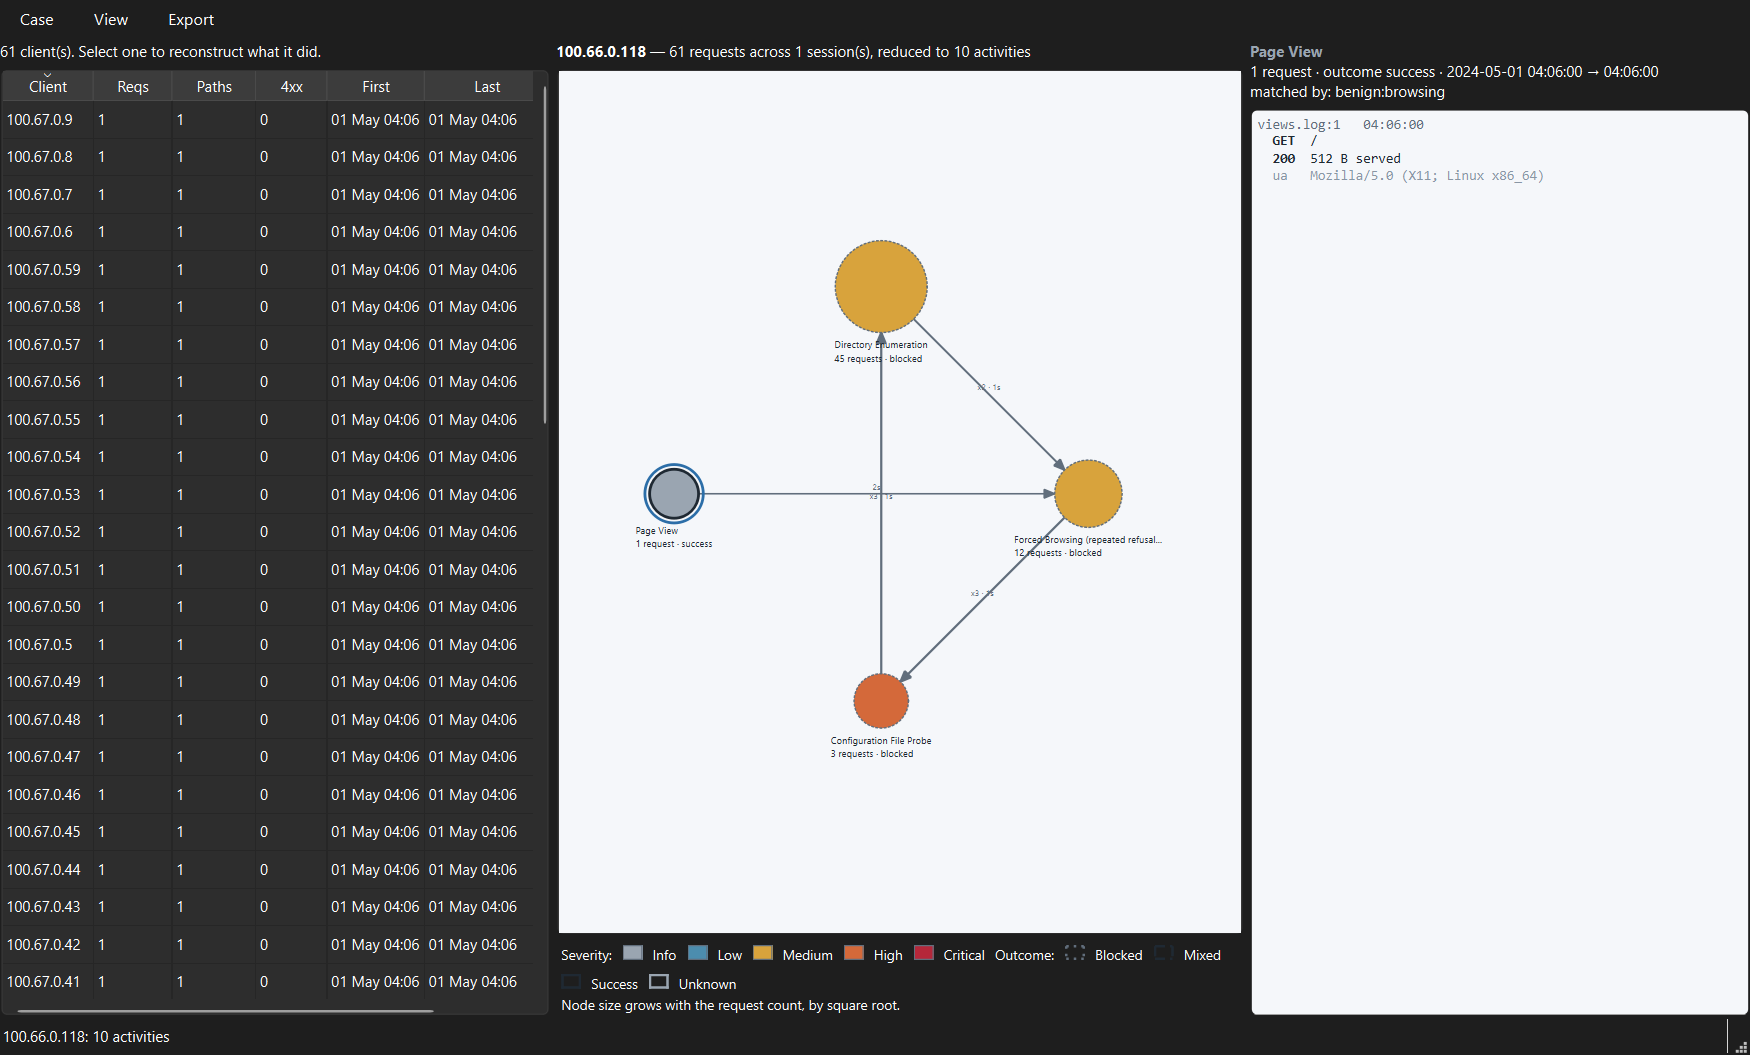
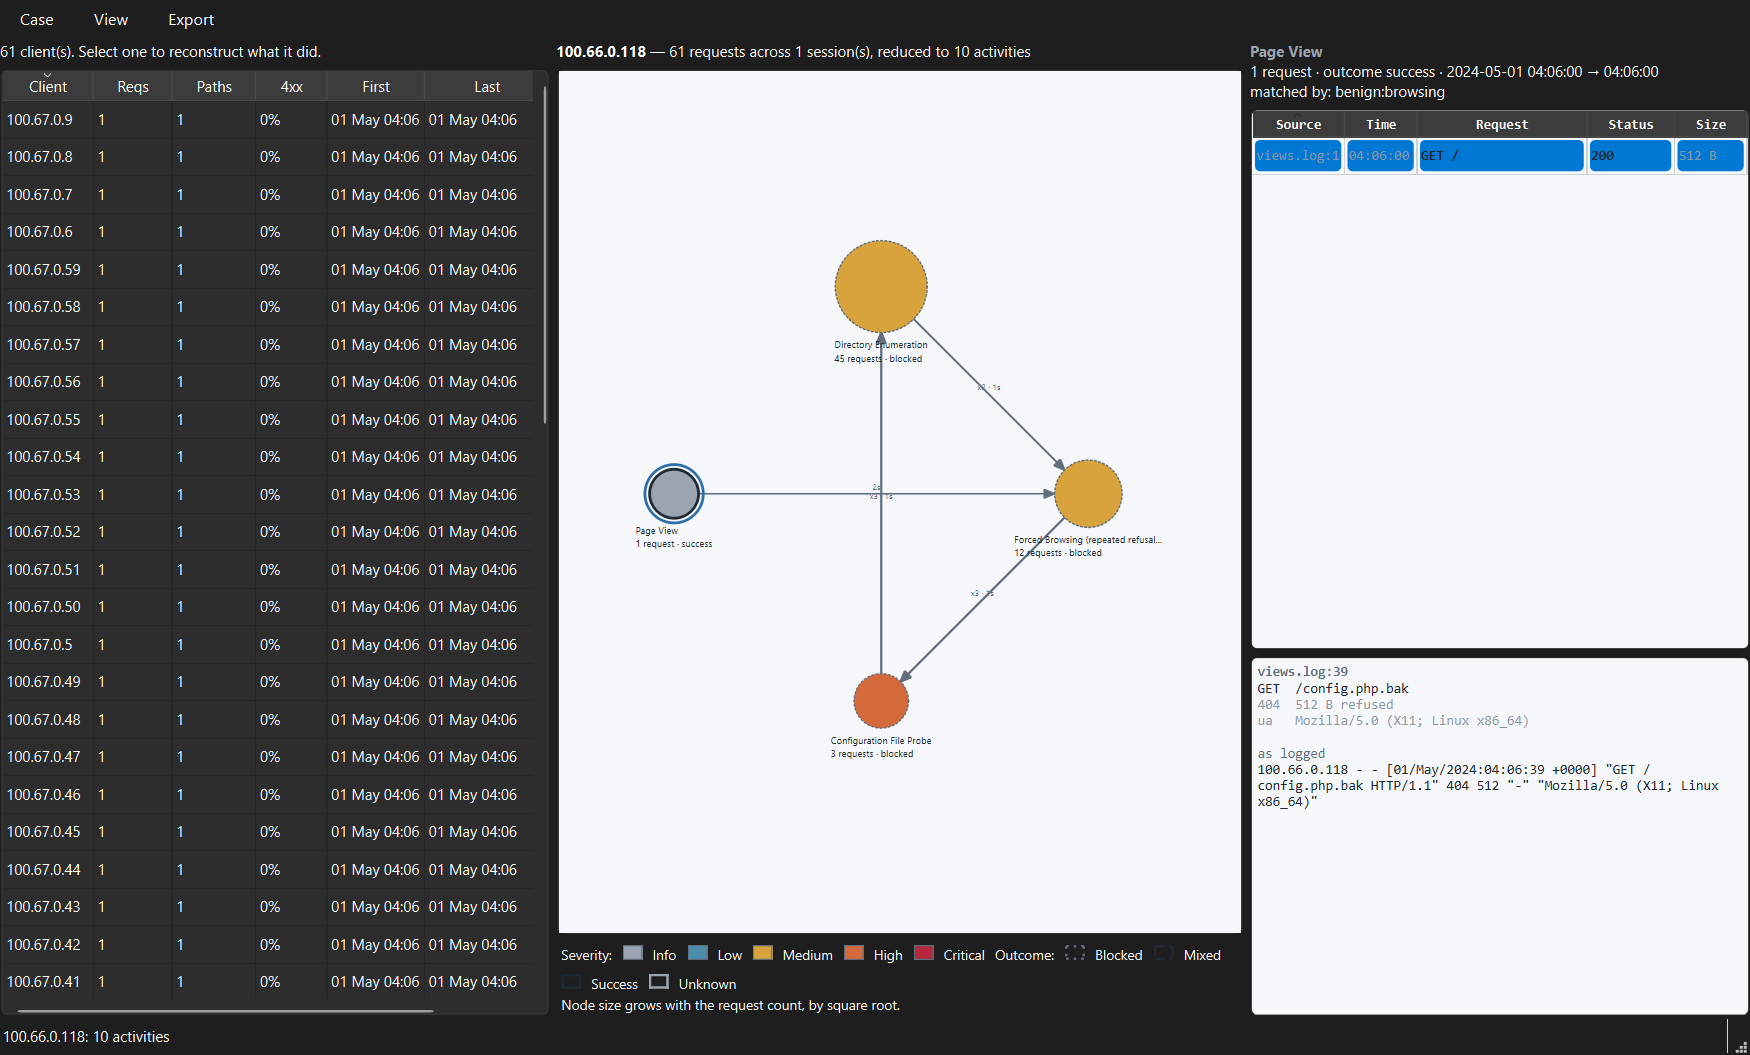
fix(gui): show the client table's formatted values, not its sort keys
Found while giving the evidence table the same numeric sorting. Qt keeps
DisplayRole and EditRole in one slot on a table item, so the sort key
written to EditRole replaces the text. The 4xx column formats a ratio as
89% and has been rendering 0.8888888888888888 since it was written --
the column an investigator sorts by when looking for something worth
opening, showing a raw float.

The key moves to a role of its own, in one SortableItem both tables now
use, so the fault cannot come back in only one of them.

Changed region(s): [[0.7097, 0.091, 1.0, 0.182], [0.7097, 0.6066, 1.0, 0.7583]]

diff --git a/src/logarc/gui/evidence_panel.py b/src/logarc/gui/evidence_panel.py
@@ -29,7 +29,7 @@ from PyQt6.QtWidgets import (
     QWidget,
 )
 
-from logarc.gui._qt import required
+from logarc.gui._qt import SORT_KEY, SortableItem, required
 from logarc.gui.evidence_view import ALERT_COLOUR, COLUMNS, Cell, Detail, cells_for, detail_for
 from logarc.gui.style import format_requests, severity_colour
 
@@ -225,33 +225,14 @@ def _build_detail(font: QFont) -> QTextEdit:
     return detail
 
 
-#: Where a cell keeps what it is sorted on, and where it sits in the evidence.
-#: Both past `UserRole`, because the roles below it are Qt's own.
-_SORT_KEY = Qt.ItemDataRole.UserRole + 1
+#: Where a row keeps its place in the evidence, so sorting cannot move it.
 _INDEX = Qt.ItemDataRole.UserRole
 
 
-class _Item(QTableWidgetItem):
-    """A cell that shows its text and sorts on its number.
-
-    Qt keeps `DisplayRole` and `EditRole` in one slot on a table item, so
-    putting a sort key in `EditRole` **replaces the text with the raw number**:
-    a timestamp renders as `1714564875` instead of `04:06:02`, and `10.4 KB`
-    becomes `10648.0`. The key therefore lives in a role of its own and the
-    comparison is made here.
-    """
-
-    def __lt__(self, other: QTableWidgetItem) -> bool:
-        mine, theirs = self.data(_SORT_KEY), other.data(_SORT_KEY)
-        if mine is None or theirs is None:
-            return super().__lt__(other)
-        return float(mine) < float(theirs)
-
-
 def _item(cell: Cell, *, index: int) -> QTableWidgetItem:
-    item = _Item(cell.text)
+    item = SortableItem(cell.text)
     if cell.sort_key is not None:
-        item.setData(_SORT_KEY, cell.sort_key)
+        item.setData(SORT_KEY, cell.sort_key)
     item.setForeground(QColor(cell.colour))
     if cell.bold:
         font = item.font()

diff --git a/tests/gui/test_window.py b/tests/gui/test_window.py
@@ -731,3 +731,42 @@ def test_the_evidence_table_does_not_depend_on_the_system_theme(
 
     assert palette.color(QPalette.ColorRole.Base).name() == _PAPER
     assert palette.color(QPalette.ColorRole.Text).name() == _INK
+
+
+def test_the_client_table_shows_a_percentage_not_a_bare_number(
+    qt_app: QApplication, campaign: Path
+) -> None:
+    """A fault this table has carried since it was written, found while giving
+    the evidence table the same treatment.
+
+    The 4xx column formats a ratio as `13%` and then puts the raw ratio in
+    EditRole to sort on. On a table item EditRole and DisplayRole are one slot,
+    so the number replaces the text and the column reads `0` — in the column an
+    investigator sorts by when looking for something worth opening.
+    """
+    with Case.open(campaign) as case:
+        summaries = case.store.ip_summaries(limit=50, order_by="requests")
+    table = ClientTable()
+
+    table.show_clients(summaries)
+
+    ratio = table._table.item(0, 3)
+    assert ratio is not None
+    assert ratio.text().endswith("%"), f"a ratio, not {ratio.text()!r}"
+
+
+def test_the_client_table_still_sorts_by_the_number(qt_app: QApplication, campaign: Path) -> None:
+    """ "1,000" sorts before "9" as text. Showing the formatted value must not
+    cost the numeric ordering."""
+    from PyQt6.QtCore import Qt as QtNS
+
+    with Case.open(campaign) as case:
+        summaries = case.store.ip_summaries(limit=50, order_by="requests")
+    table = ClientTable()
+    table.show_clients(summaries)
+
+    table._table.sortItems(1, QtNS.SortOrder.DescendingOrder)
+
+    top = table._table.item(0, 1)
+    assert top is not None
+    assert top.text() == f"{max(s.request_count for s in summaries):,}"

diff --git a/src/logarc/gui/_qt.py b/src/logarc/gui/_qt.py
@@ -15,7 +15,10 @@ from __future__ import annotations
 
 from typing import TypeVar
 
-__all__ = ["required"]
+from PyQt6.QtCore import Qt
+from PyQt6.QtWidgets import QTableWidgetItem
+
+__all__ = ["SORT_KEY", "SortableItem", "required"]
 
 _T = TypeVar("_T")
 
@@ -25,3 +28,29 @@ def required(value: _T | None, what: str = "widget") -> _T:
     if value is None:  # pragma: no cover - Qt creates these on demand
         raise RuntimeError(f"Qt did not provide a required {what}")
     return value
+
+
+#: Where a cell keeps the number it is ordered by. Past `UserRole`, and past
+#: whatever a widget stores there itself.
+SORT_KEY = Qt.ItemDataRole.UserRole + 1
+
+
+class SortableItem(QTableWidgetItem):
+    """A cell that shows its text and sorts on a number kept beside it.
+
+    The obvious way to make a column sort numerically is to put the number in
+    `EditRole`, and it is wrong: Qt keeps `DisplayRole` and `EditRole` in one
+    slot on a table item, so the number **replaces the text**. Both of this
+    application's tables did it, and both were quietly showing raw values —
+    a time of day as `1714564875`, and the 4xx ratio an investigator sorts the
+    client list by as `0.8888888888888888` rather than `89%`.
+
+    So the key lives in a role of its own and the comparison is made here.
+    Sorting is unchanged; the text survives.
+    """
+
+    def __lt__(self, other: QTableWidgetItem) -> bool:
+        mine, theirs = self.data(SORT_KEY), other.data(SORT_KEY)
+        if mine is None or theirs is None:
+            return super().__lt__(other)
+        return float(mine) < float(theirs)

diff --git a/src/logarc/gui/panels.py b/src/logarc/gui/panels.py
@@ -17,12 +17,11 @@ from PyQt6.QtWidgets import (
     QLayout,
     QLayoutItem,
     QTableWidget,
-    QTableWidgetItem,
     QVBoxLayout,
     QWidget,
 )
 
-from logarc.gui._qt import required
+from logarc.gui._qt import SORT_KEY, SortableItem, required
 from logarc.gui.style import (
     SIZE_NOTE,
     outcome_legend,
@@ -108,12 +107,16 @@ class ClientTable(QWidget):
         )
 
     def _set(self, row: int, column: int, text: str, *, sort_key: float | None = None) -> None:
-        item = QTableWidgetItem(text)
+        item = SortableItem(text)
         if sort_key is not None:
             # Sort on the number, not on the formatted text: "1,000" sorts
             # before "9" as a string, which would silently mis-rank the table.
-            item.setData(Qt.ItemDataRole.UserRole, sort_key)
-            item.setData(Qt.ItemDataRole.EditRole, sort_key)
+            #
+            # In a role of its own. This used to go in `EditRole`, which on a
+            # table item is the same slot as the text — so the 4xx column, the
+            # one this table is sorted by when looking for something worth
+            # opening, was showing `0.8888888888888888` instead of `89%`.
+            item.setData(SORT_KEY, sort_key)
         self._table.setItem(row, column, item)
 
     def _emit_choice(self) -> None:

diff --git a/docs/manual-test-plan.md b/docs/manual-test-plan.md
@@ -261,36 +261,43 @@ file it came from.
 
 1. Reconstruct a client with an injection episode and click that node.
 
-**Pass:** each entry shows `file:line` and a time, then the target, then the
-status with its size. The payload is readable — `' OR '1'='1`, not
-`%27+OR+%271%27%3D%271`. A served response stands out from refused ones.
+**Pass:** a table with a row per request — `Source`, `Time`, `Request`,
+`Status`, `Size`. The payload is readable: `GET /product?id=1' OR '1'='1`, not
+`%27+OR+%271%27%3D%271`. A served response stands out from refused ones. Values
+read as values: a time of day rather than `1714564875`, `1.3 MB` rather than
+`1400000.0`. The same goes for the client table on the left, whose `4xx` column
+must show a percentage.
 
-2. **View → Show raw log lines** (Ctrl+R).
+2. Click the `Size` heading twice to sort descending.
 
-**Pass:** the whole source line appears under each entry. Compare one against
-the file itself:
+**Pass:** the largest response is on top — the request that got data out. Click
+that row.
+
+**Pass:** the detail beneath names the same `Source` as the highlighted row.
+Sorting must never leave the detail describing a different request from the one
+selected.
+
+3. Read the `as logged` block in the detail and compare it with the file:
 
 ```powershell
 Get-Content <log> | Select-Object -Index (<line> - 1)
 ```
 
-They must be identical, character for character, including the parts the
-summary leaves out.
+They must be identical, character for character, including everything the table
+leaves out. This is the check that makes summarising permissible at all.
 
-3. **View → Decode URL escapes**, off.
+4. **View → Decode URL escapes**, off.
 
-**Pass:** targets are shown exactly as the log holds them, percent escapes and
-all.
-
-4. Close the application and reopen it.
-
-**Pass:** both choices are as they were left.
+**Pass:** requests are shown exactly as the log holds them, percent escapes and
+all. Close the application and reopen it: the choice is as it was left.
 
 5. Find or craft a request containing `%0A` and click its episode.
 
-**Pass:** it is printed as `<U+000A>` on one line. **It must not produce a line
-break.** A decoded newline would let whoever is being investigated compose what
-looks like another log entry inside the panel their case is read from.
+**Pass:** it is printed as `<U+000A>` and occupies **one row**. A decoded
+newline would let whoever is being investigated draw over the row beneath — a
+fabricated request, with a status of their choosing, in the table their case is
+read from. Hover the row: the tooltip shows any `<` or `>` in the payload as
+characters, never as markup.
 
 ---
 

diff --git a/CHANGELOG.md b/CHANGELOG.md
@@ -26,6 +26,24 @@ versioning follows [Semantic Versioning](https://semver.org/spec/v2.0.0.html).
   shared out, and panels no longer collapse to an invisible handle against the
   window edge. The 430px floor put on the client table to stop its columns
   hiding is gone — it was the wrong tool, and it was half of what wedged this.
+- **The evidence is a sortable table.** One row per request — source, time,
+  the request, status, size — with the selected row shown in full beneath it.
+  Twenty-five pieces of evidence were 175 rows of wrapped text readable only in
+  the order they arrived; they are twenty-five rows now, and can be **sorted by
+  size to find the request that got data out** or by status to find what was
+  served rather than refused. Those are the two questions a blue team asks of an
+  episode and neither could be answered before without reading every line.
+  The detail pane carries the whole payload, the agent at full length, and the
+  source line **exactly as the log holds it** — so nothing is summarised away,
+  only moved to where there is room for it. `View → Show raw log lines` is
+  retired: the pane shows the original for the selected row always, which is
+  strictly more than a global on-or-off could give.
+- **Both tables were showing raw numbers in place of their formatted values.**
+  Qt keeps `DisplayRole` and `EditRole` in one slot on a table item, so a sort
+  key written to `EditRole` replaces the text. The client list has shown
+  `0.8888888888888888` where it formats `89%` since it was written — in the
+  column an investigator sorts by when looking for something worth opening. The
+  key now lives in a role of its own, in one shared item both tables use.
 - **The evidence panel showed everything except the evidence.** It printed the
   raw source line and nothing else. A Combined line is 293 characters, of which
   **53% is the user agent** and 15% is the client address and timestamp already

diff --git a/README.md b/README.md
@@ -106,10 +106,11 @@ chains wrap onto further rows, alternating direction, because a trace drawn on o
 as it is long and shrinks to an unreadable smudge when fitted to the window. **View → Wrap long
 traces** (Alt+Z) turns the fold off when the straight timeline is worth more than legible captions;
 the graph is then panned rather than fitted, opening on its first activity, and the choice is
-remembered between launches. The panel on the right holds the raw log lines the selected node was
-built from; every finding traces back to a line. The lines are shown exactly as the log holds them,
-wrapped rather than run off the edge, with the request target marked and the response status with
-it — a served status stands out, because on a hostile request that is the alarming one.*
+remembered between launches. The panel on the right is the evidence the selected node was built
+from, a row per request: sort it by size to find the one that got data out, or by status to find
+what was served rather than refused. Payloads are decoded, so `' OR '1'='1` reads as the tautology
+it is instead of `%27+OR+%271%27%3D%271`. The pane beneath holds the selected request in full,
+including the source line exactly as the log holds it — every finding traces back to a line.*
 
 ![The same client drawn as a behaviour map](docs/images/screenshot-behaviour.png)
 
